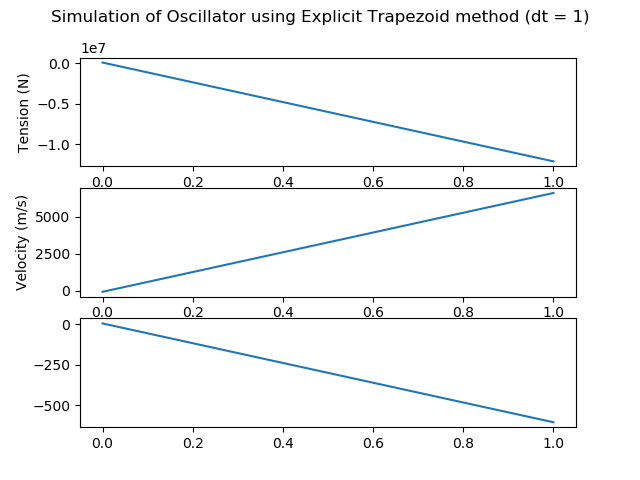
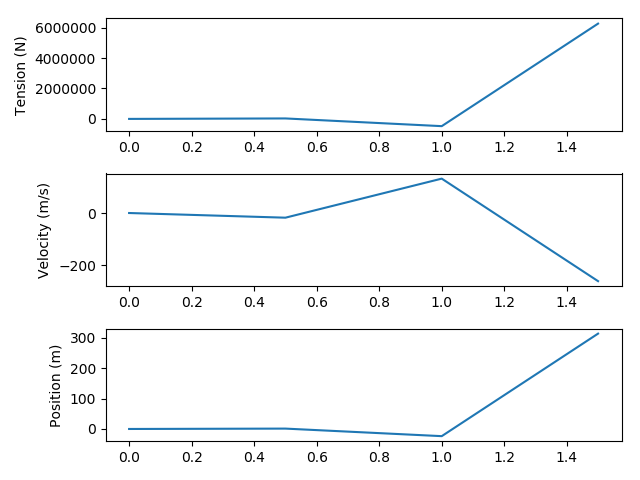
change initial state for Euler's method and fix plots.. again

diff --git a/Q2.py b/Q2.py
@@ -8,16 +8,14 @@ import sys
 import numpy as np
 import matplotlib.pyplot as plt
 
-# Question Setup from writing-simulation-code-2020
+# Hill muscle system setup 
 a, b = 1000, 1
 alpha = 20000
 p0 = 2000
 g = 9.807
 m = 220
 
-
-# Define dynamic equations from writing-simulation-code-2020
-# 3D mass/Hill-muscle system
+# Define dynamic equations for 3D mass/Hill-muscle system
 def f(x):
 	return np.array([
 		alpha * (x[1] + b * (p0 - x[0]) / (x[0] + a)),
@@ -28,43 +26,43 @@ def f(x):
 
 # Function created for explicit trapezoid integration method
 def expl_trap(dt):
-    time = np.arange(0, 2, dt)  # time range for 2 secconds
-    x = np.array([0, 0, 0])  # initial state is x = [0, 0 , 0]
-    x_trajectory = []
+	time = np.arange(0, 2, dt)  # time range for 2 secconds
+	x = np.array([0, 0, 0])  # initial state is x = [0, 0, 0]
+	x_trajectory = []
 
-    # implement the explicit trapezoid integration method
-    for t in time:
-	    xa = f(x + dt * x)
-	    xb = f(x + dt * xa)
-	    x = x + 0.5 * dt * (xa + xb)
-	    x_trajectory.append(x)
-
-    # Plot the state vs time graphs for the three dynamic equations
-    x_trajectory = np.array(x_trajectory)
-    plt.subplot(3, 1, 1)
-    plt.plot(time, x_trajectory[:, 0])
-    plt.ylabel('Tension (N)')
-    plt.subplot(3, 1, 2)
-    plt.plot(time, x_trajectory[:, 1])
-    plt.ylabel('Velocity (m/s)')
-    plt.subplot(3, 1, 3)
-    plt.plot(time, x_trajectory[:, 2])
-    plt.show()
+	# implement the explicit trapezoid integration method
+	for t in time:
+		x_trajectory.append(x)
+		xa = f(x)
+		xb = f(x + dt * xa)
+		x = x + 0.5 * dt * (xa + xb)
+		
+	# Plot the state vs time graphs for the three dynamic equations
+	x_trajectory = np.array(x_trajectory)
+	plt.subplot(3, 1, 1)
+	plt.plot(time, x_trajectory[:, 0])
+	plt.ylabel('Tension (N)')
+	plt.subplot(3, 1, 2)
+	plt.plot(time, x_trajectory[:, 1])
+	plt.ylabel('Velocity (m/s)')
+	plt.subplot(3, 1, 3)
+	plt.plot(time, x_trajectory[:, 2])
+	plt.ylabel('Position (m)')
+	plt.tight_layout()
 
 
 def find_timestep():
 
-    # dts = [1, 0.5, 0.25, 0.125, 0.0625, 0.03125, \
-    #       0.015625, 0.0078125, 0.00390625, 0.001953125]
-    dts = [0.0009765625]
-    # dt2 = [0.00390625, 0.001953125]
+	dts = [1, 0.5, 0.25, 0.125, 0.0625, 0.03125, \
+		   0.015625, 0.0078125, 0.00390625, 0.001953125]
 
-    for i in range(len(dts)):
-        plt.figure(i)
-        title_trap = 'Simulation of Oscillator using Explicit Trapezoid method (dt = {})'.format(dts[i])
-        plt.suptitle(title_trap)
-        expl_trap(dts[i])
+	for i in range(len(dts)):
+		plt.figure(i)
+		expl_trap(dts[i])
+		pltname = 'q2_plots/q2_t{}.png'.format(i)
+		plt.savefig(pltname)
+		plt.close()
 
 
 if __name__ == "__main__":
-    find_timestep(*sys.argv[1:])
+	find_timestep(*sys.argv[1:])

diff --git a/Q1.py b/Q1.py
@@ -16,28 +16,24 @@ def f(x):
 
 # Implementation of Euler's method for given system
 def euler(dt):
-	times = []
-	trajectory = []
+	times = np.arange(0, 10, dt)
+	x_trajectory = []
 	t = 0
-	x = np.array([1, 1])
-	# dt = 0.0625
-	for i in range(int(10 / dt)):
-		times.append(t)
-		trajectory.append(x)
+	x = np.array([1, 0])
+
+	for t in times:
+		x_trajectory.append(x)
 		t = t + dt
 		x = x + f(x) * dt
 
-	plt.plot(times, trajectory)
-
+	plt.plot(times, x_trajectory)
 	plt.xlabel('Time (s)')
 	plt.ylabel('State')
 	plt.tight_layout()
-	plt.show()
 
 
 # c) Implement the RK4 integration method. Simulate for 10 s with a timestep of 0.05 s
 def rk4_update(dt):
-
 	times = np.arange(0, 10, dt)
 	x_trajectory = []
 	t = 0
@@ -46,17 +42,15 @@ def rk4_update(dt):
 	for t in times:
 		s1 = f(x)
 		s2 = f(x + 0.5 * dt * s1)
-		s3 = f(x + 0.5 * dt *s2)
+		s3 = f(x + 0.5 * dt * s2)
 		s4 = f(x + dt * s3)
 		x = x + dt * (s1 + (2 * s2) + (2 * s3) + s4) / 6
 		x_trajectory.append(x)
 
 	plt.plot(times, x_trajectory)
-
 	plt.xlabel('Time (s)')
 	plt.ylabel('State')
 	plt.tight_layout()
-	plt.show()
 
 
 # callable function for solve_ivp method
@@ -85,6 +79,9 @@ def find_timestep(method):
 			title_eulers = 'Simulation of Oscillator using Euler\'s method (dt = {})'.format(dts[i])
 			plt.title(title_eulers)
 			euler(dts[i])
+			fig_name = 'q1_plots/q1e_euler_t_{}.png'.format(i)
+			plt.savefig(fig_name)
+			plt.close()
 
 	elif method == "rk4":
 		for i in range(len(dts)):
@@ -92,6 +89,9 @@ def find_timestep(method):
 			title_rk4 = 'Simulation of Oscillator using RK-4 method (dt = {})'.format(dts[i])
 			plt.title(title_rk4)
 			rk4_update(dts[i])
+			fig_name = 'q1_plots/q1e_rk4_t_{}.png'.format(i)
+			plt.savefig(fig_name)
+			plt.close()
 
 
 if __name__ == "__main__":
